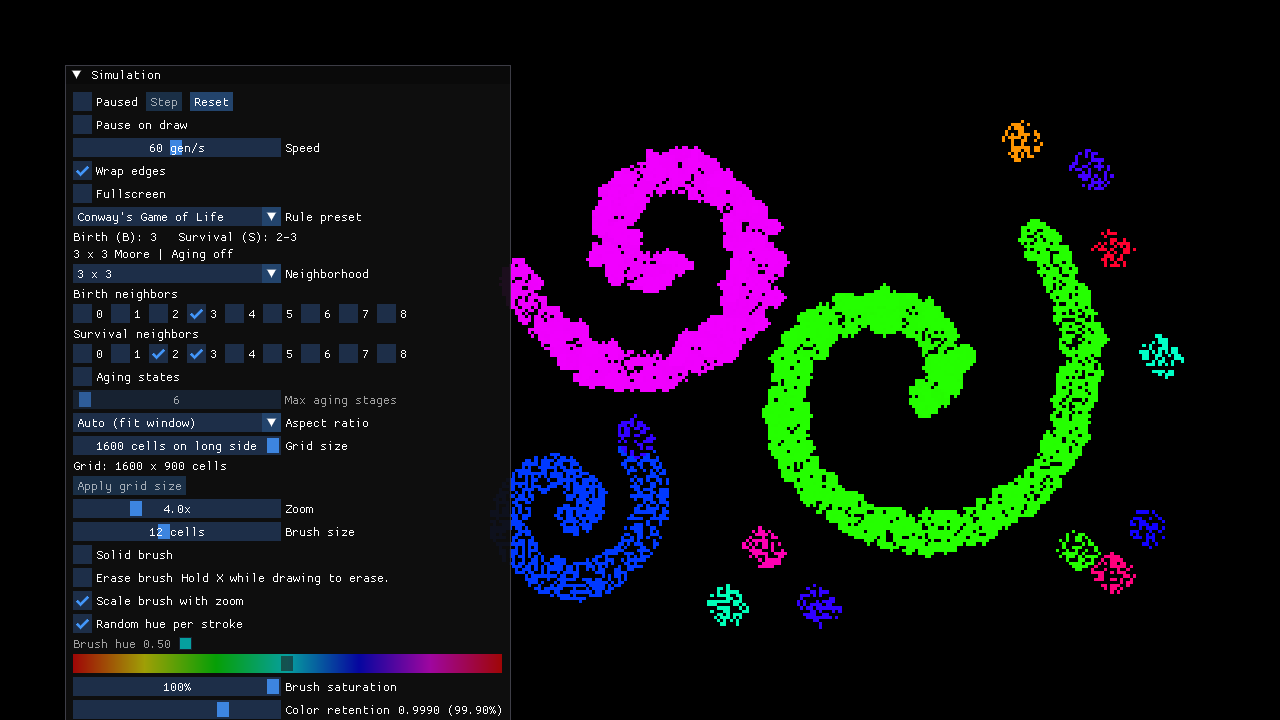
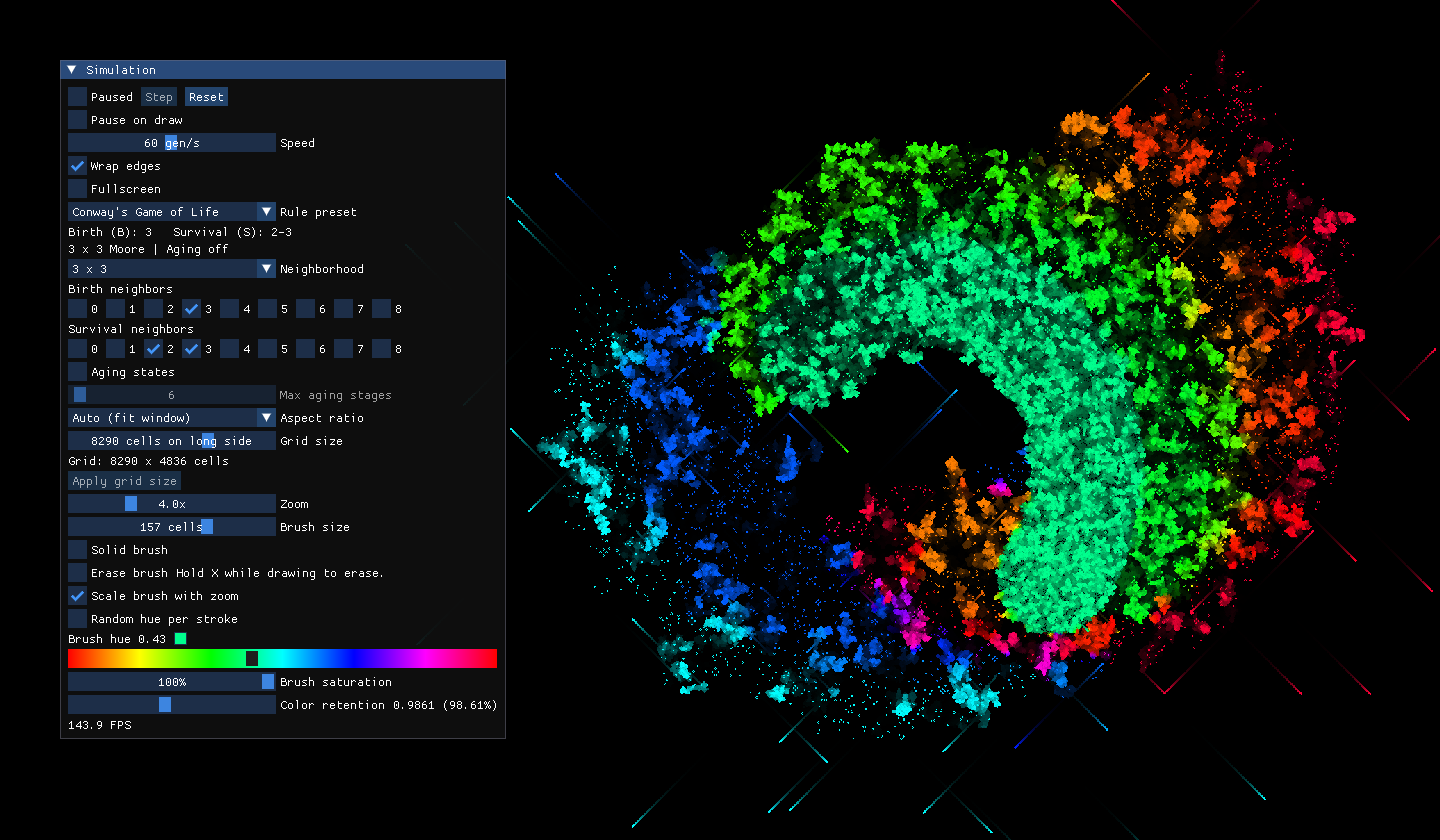
Show color blending and retention on a larger grid

diff --git a/README.md b/README.md
@@ -16,7 +16,11 @@ cmake --build build-linux
 
 ## Running the simulation
 
-![Cellular Automata running with colored cell patterns drawn on the grid](docs/simulation.png)
+![Dense rings of Conway's Game of Life cells blending from blue to green and orange, with fading trails and the Simulation settings visible](docs/simulation.png)
+
+Conway's Game of Life on an 8,290 × 4,836 grid. Colors blend where live
+populations meet, and dead cells leave trails at 98.61% brightness retention
+per generation.
 
 Launch `CellularAutomata` from the build output (`build/bin/Debug` for the
 Visual Studio Debug build). CMake copies the SPIR-V shaders into the `shaders`
